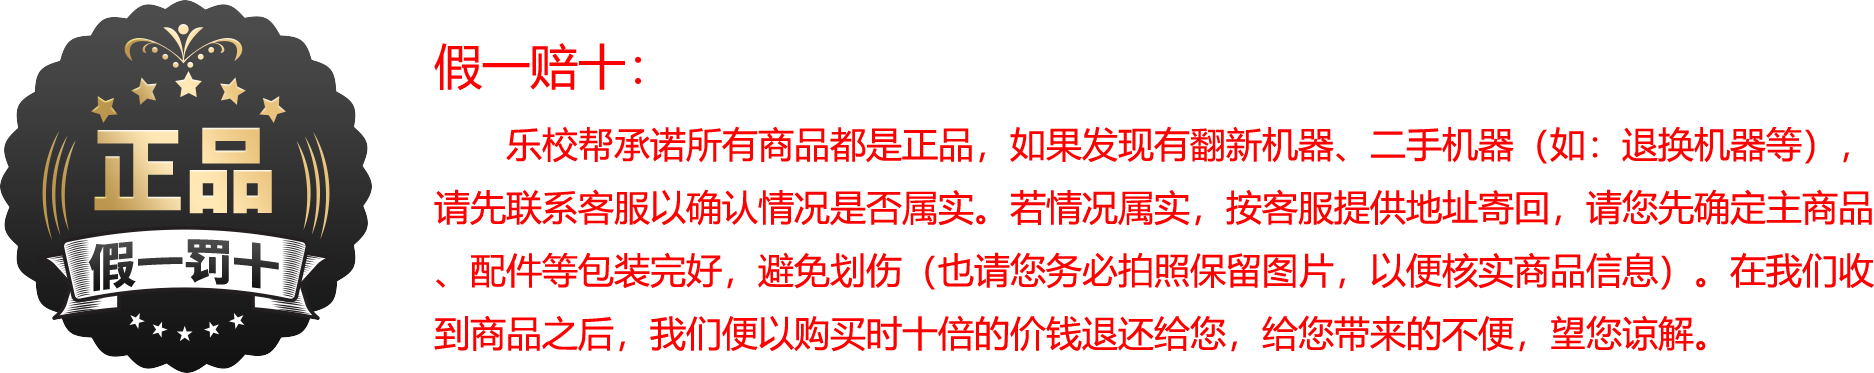
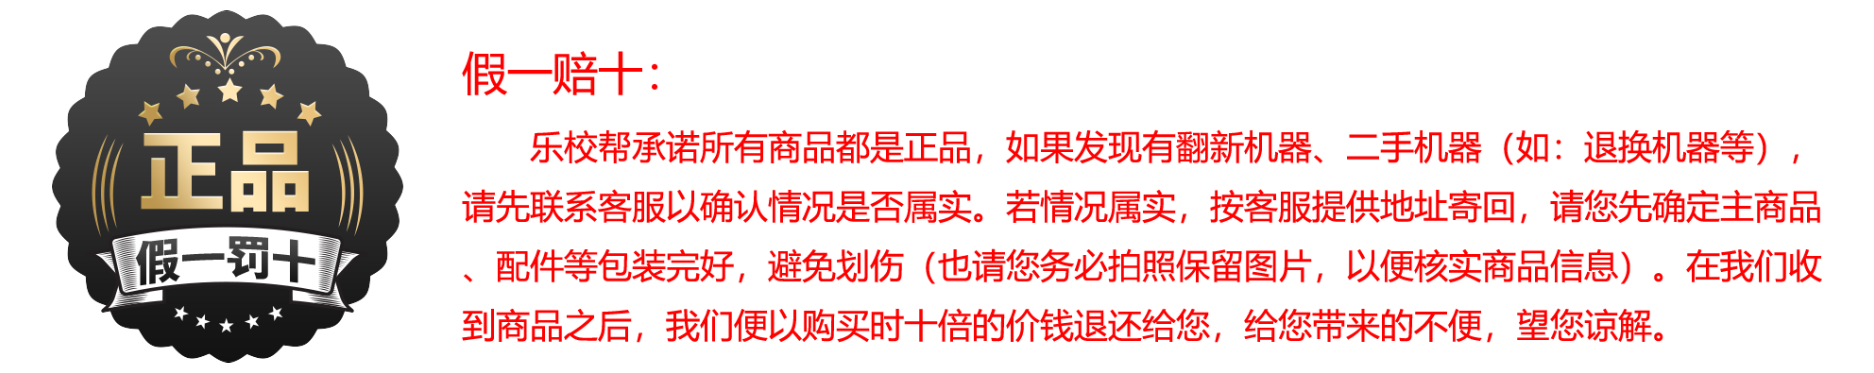
商品

diff --git a/html/ll_shopDetail.html b/html/ll_shopDetail.html
@@ -154,8 +154,8 @@
 					<img src="./img/banner1_02.jpg" alt="">
 					<img src="./img/banner1_02.jpg" alt="">
 					<img src="./img/banner1_02.jpg" alt="">
-					<div class="" style="font-size: .1rem;padding-left: .3rem;padding-right:.3rem;color: #9d9d9d">
-						<img src="./img/compensation.png" alt="" style="margin: .1rem 0 .1rem 0;">
+                    <img src="./img/compensation.png" alt="">
+					<div class="" style="font-size: .1rem;padding-left: .3rem;padding-right:.3rem;color: #9d9d9d;overflow: hidden;">
 						<div style="font-size: .5rem;background-color: #f7f7f7;color: #666666;"><h5 style="line-height: 0.68rem;font-size: .3rem;color: #4a4a4a">售后保障</h5></div>
 						<p style="color: #4b4b4b">厂家服务</p>
 						<p>本产品全国联保，享受三包服务，质保期为：两年质保（仅供参考，详情以品牌售后服务为准）</p>
